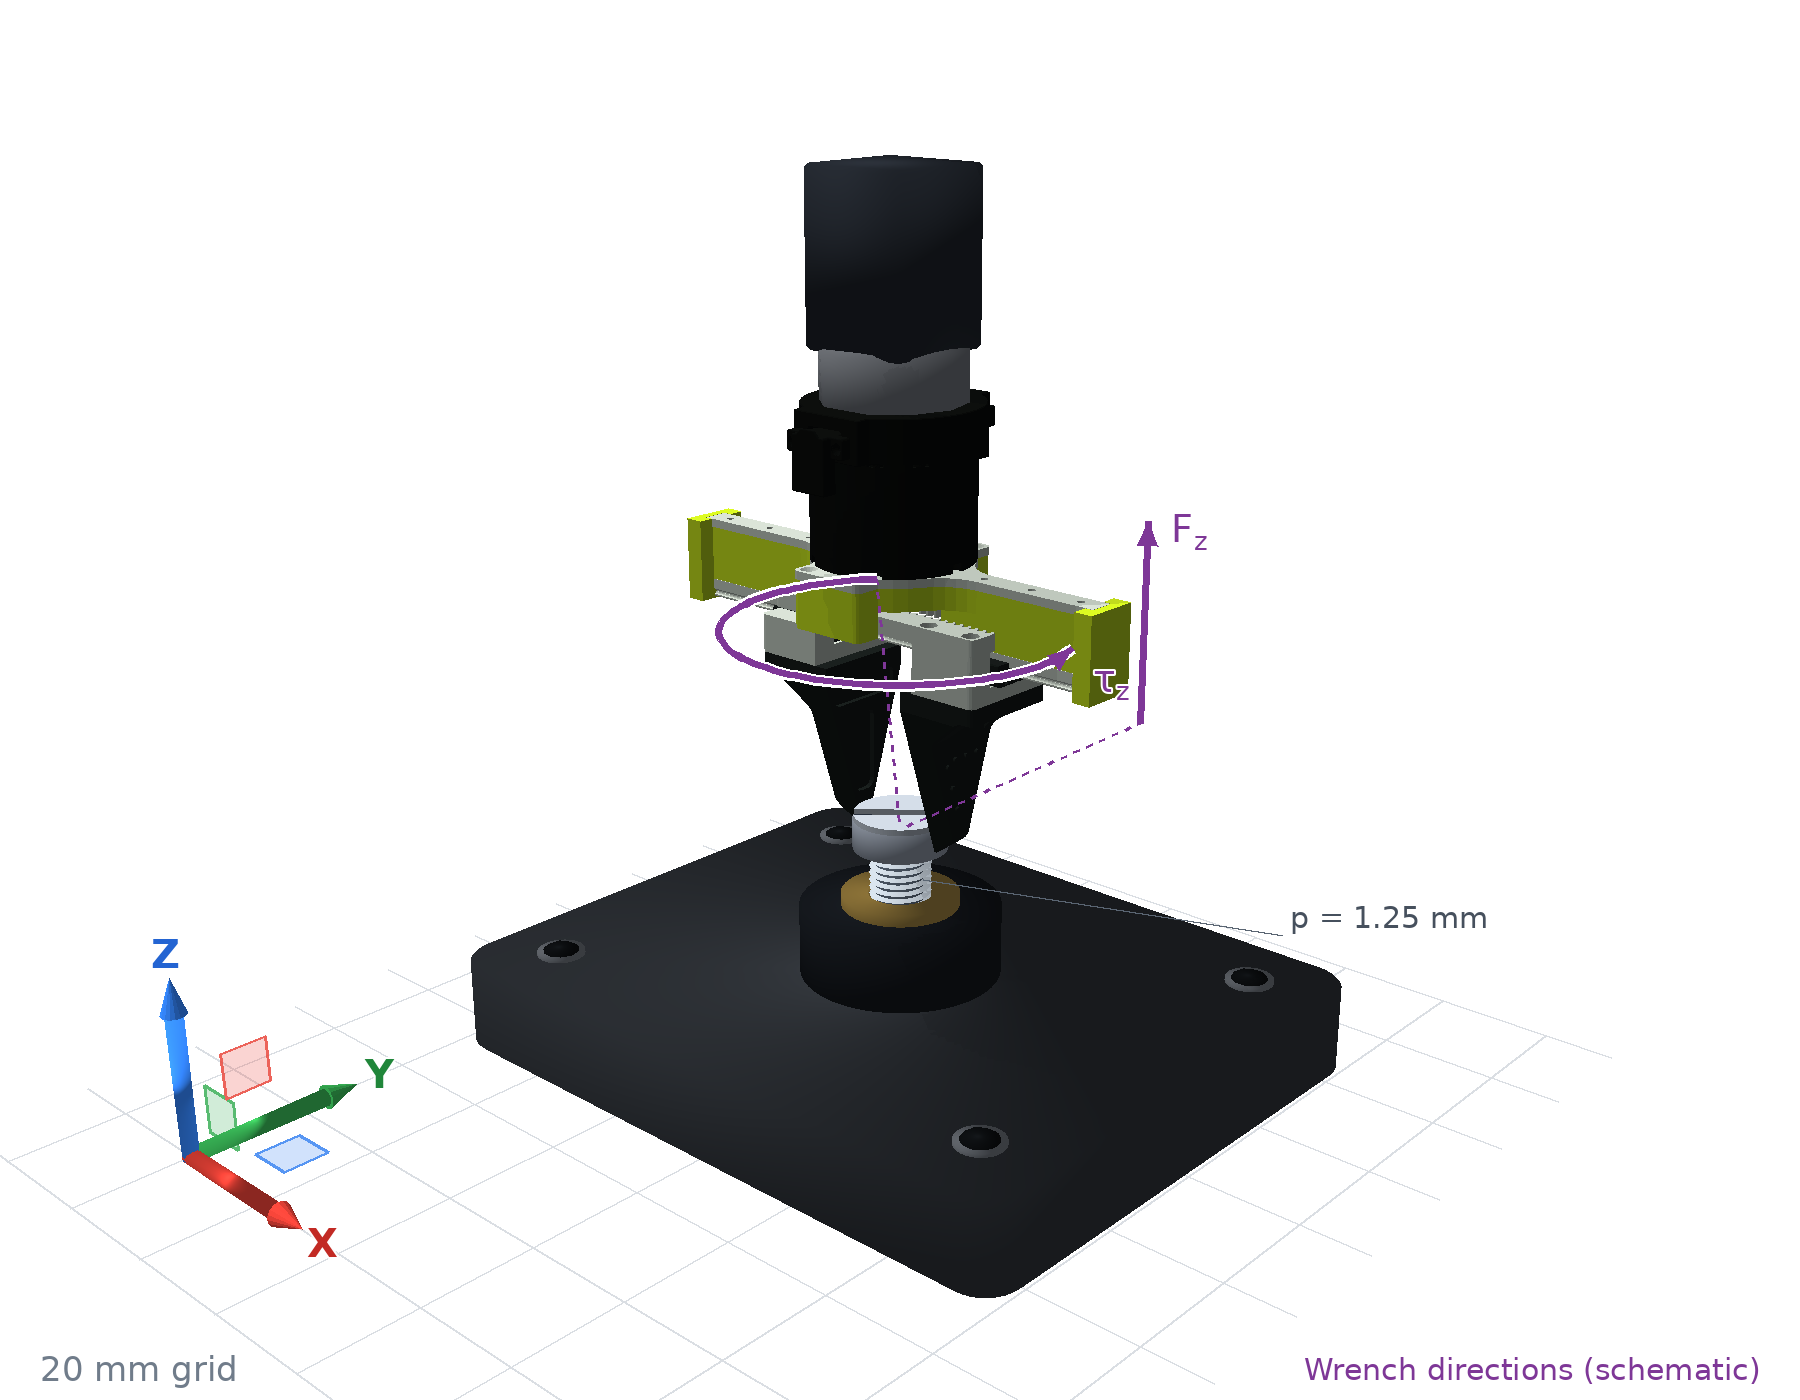
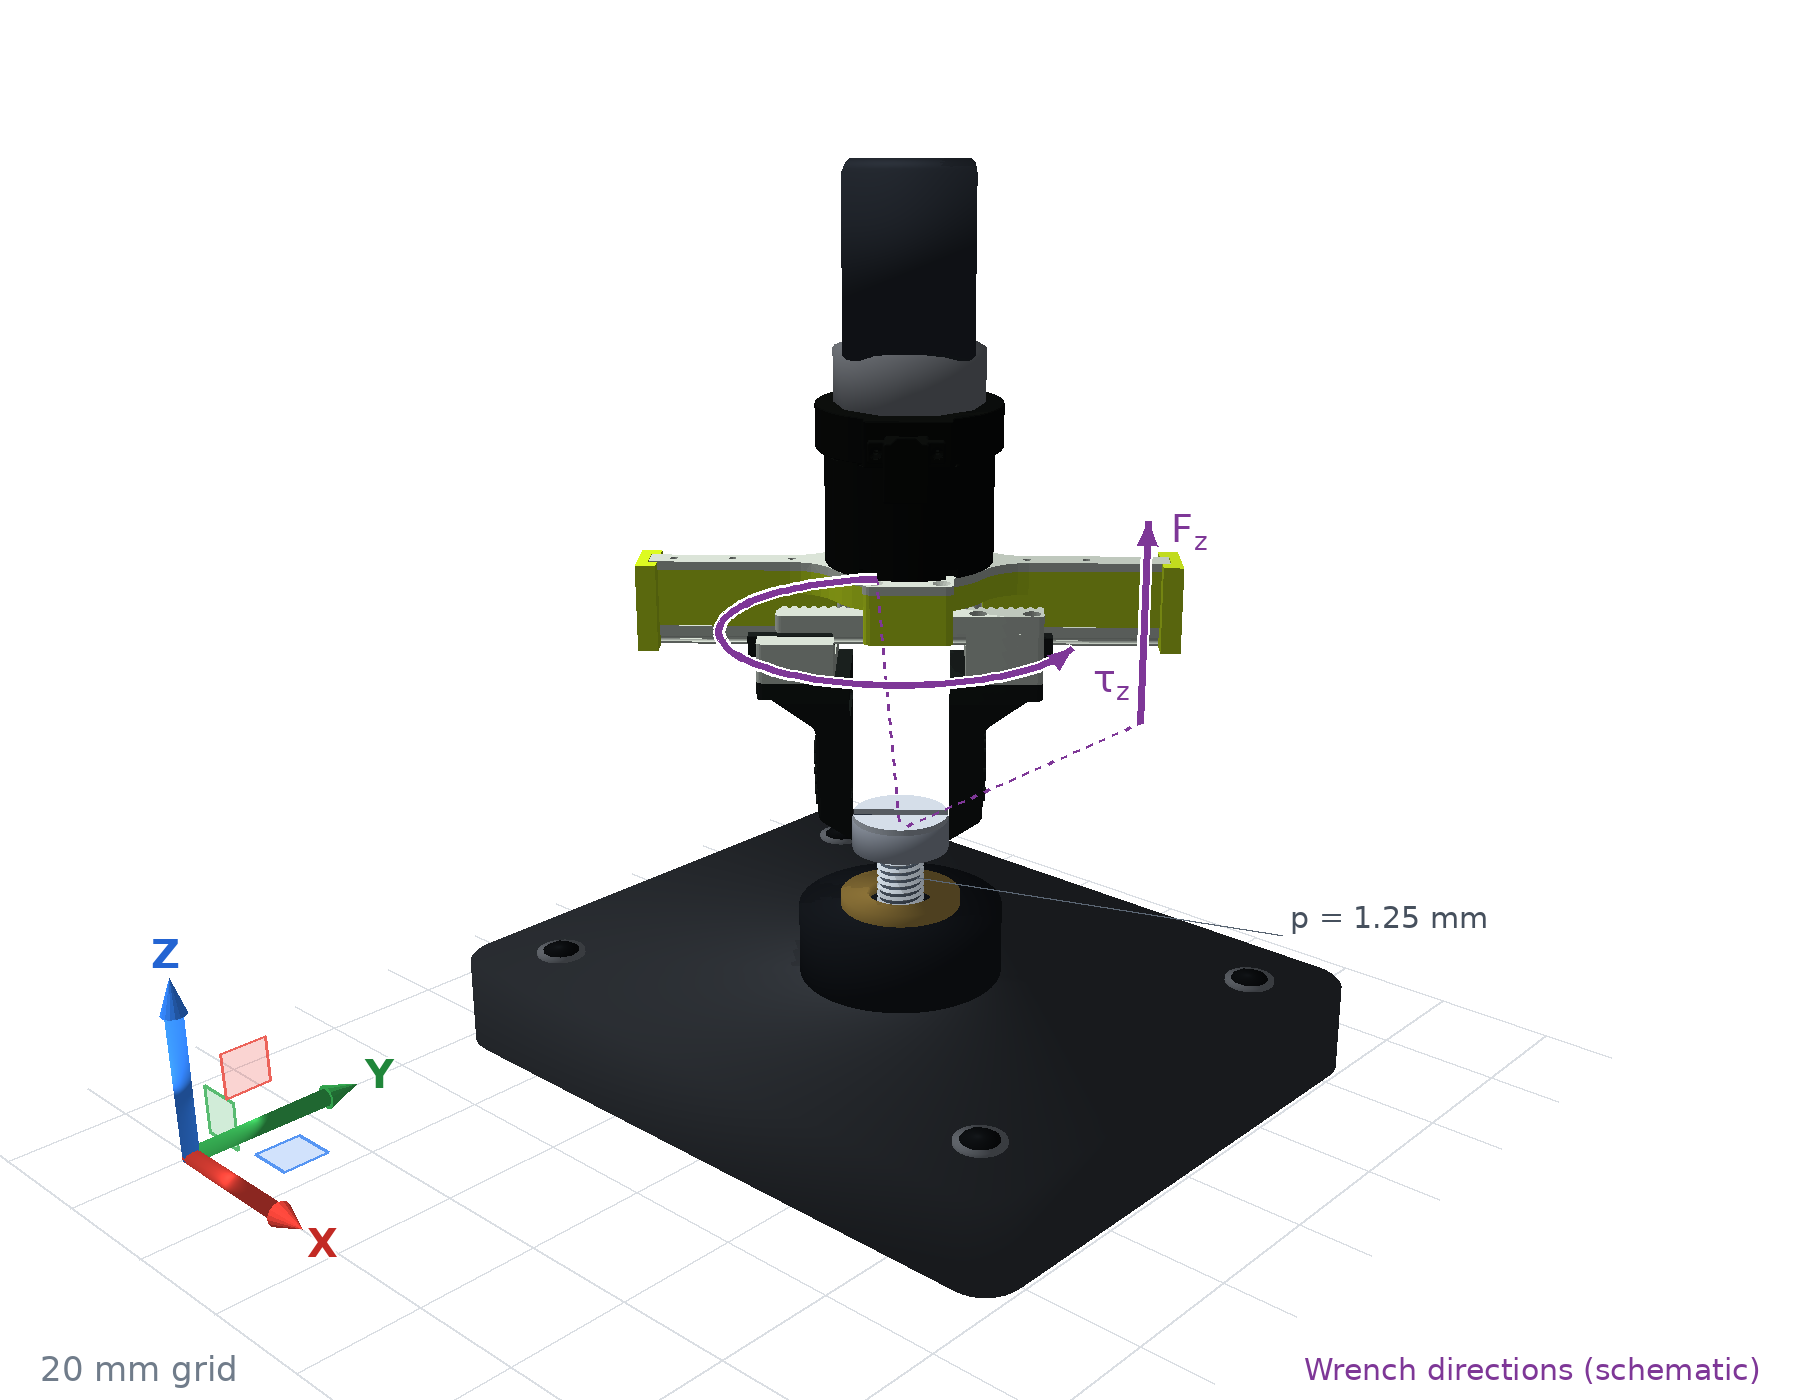
Drive SCREW geometry and grasp from environment state

Changed region(s): [[0.3422, 0.0921, 0.6844, 0.645], [0.5289, 0.1843, 0.56, 0.215], [0.5289, 0.1229, 0.56, 0.1536]]

diff --git a/scripts/render_screw_workspace_b601.py b/scripts/render_screw_workspace_b601.py
@@ -1,17 +1,17 @@
 #!/usr/bin/env python3
 """Render the archived SCREW frame with a threaded fastener and B601 grasp."""
-import json
 import math
 from pathlib import Path
 
 import numpy as np
 import pybullet as p
 from b601_render_common import make_box, make_cyl
+from workspace_environment import prepare_environment, body_geometry
 from workspace_render_cli import DEFAULT_OUTPUT_DIR, DEFAULT_PROVENANCE, run_renderer
 from workspace_wrench import force, metadata, torque
 
 
-def render(*, output_dir=DEFAULT_OUTPUT_DIR, provenance_path=DEFAULT_PROVENANCE, debug=False):
+def render(*, output_dir=DEFAULT_OUTPUT_DIR, provenance_path=DEFAULT_PROVENANCE, environment=None, debug=False):
     output_dir = Path(output_dir)
     output_dir.mkdir(parents=True, exist_ok=True)
     provenance_path = Path(provenance_path)
@@ -24,19 +24,15 @@ def render(*, output_dir=DEFAULT_OUTPUT_DIR, provenance_path=DEFAULT_PROVENANCE,
         write_manifest,
     )
 
-    entry = json.loads(provenance_path.read_text())["states"]["SCREW"]
-    if entry["trace_step"] != 188:
-        raise ValueError("Expected SCREW trace step 188")
-    state = entry["frame"]["state"]
-    theta, lift = float(state["theta_rad"]), float(state["z_m"])
-    # The archived helical state is unchanged. Dimensions below describe
-    # the illustrative fixture; pitch matches screw_env_v3.PITCH.
-    pitch = 0.00125
+    env, model, entry, binding = prepare_environment("SCREW", provenance_path, environment)
+    theta, lift = float(env.theta), float(env.z)
+    pitch = model.PITCH
+    crest_radius, root_radius = model.RADIUS, 0.85 * model.RADIUS
     fixture_top = 0.014
     head_z = fixture_top + lift + 0.003
     cid = p.connect(p.DIRECT)
     try:
-        rounded_box(cid, [0.060, 0.048, 0.008], [0, 0, -0.008], [0.22, 0.24, 0.27, 1], radius=0.007)
+        fixture = rounded_box(cid, [0.060, 0.048, 0.008], [0, 0, -0.008], [0.22, 0.24, 0.27, 1], radius=0.007)
         for x in (-0.047, 0.047):
             for y in (-0.035, 0.035):
                 annulus(cid, 0.0022, 0.0041, 0.0006, [x, y, 0.0003], [0.51, 0.54, 0.58, 1])
@@ -48,13 +44,13 @@ def render(*, output_dir=DEFAULT_OUTPUT_DIR, provenance_path=DEFAULT_PROVENANCE,
         bottom, top = head_z - 0.029, head_z - 0.003
         # Use an explicit mesh: the TinyRenderer cylinder primitive expands
         # its silhouette beyond the nominal radius and hides the thread flanks.
-        annulus(cid, 0, 0.00425, top - bottom, [0, 0, (top + bottom) / 2], [0.24, 0.28, 0.33, 1])
+        annulus(cid, 0, root_radius, top - bottom, [0, 0, (top + bottom) / 2], [0.24, 0.28, 0.33, 1])
         vertices, indices = [], []
         count = int((top - bottom) / pitch * 72)
         for angle in np.linspace(0, (top - bottom) / pitch * 2 * math.pi, count):
             a = angle + theta
             z = bottom + angle * pitch / (2 * math.pi)
-            for radius, dz in ((0.00423, -pitch * 0.30), (0.0052, 0), (0.00423, pitch * 0.30)):
+            for radius, dz in ((root_radius, -pitch * 0.30), (crest_radius, 0), (root_radius, pitch * 0.30)):
                 vertices.append([radius * math.cos(a), radius * math.sin(a), z + dz])
         for i in range(count - 1):
             for j in range(2):
@@ -64,7 +60,7 @@ def render(*, output_dir=DEFAULT_OUTPUT_DIR, provenance_path=DEFAULT_PROVENANCE,
         mesh_body(cid, vertices, indices, [0.69, 0.73, 0.78, 1], flat=True)
 
         # Recessed slot: two metal half-discs above a lower screw-head body.
-        annulus(cid, 0, 0.008, 0.005, [0, 0, head_z - 0.0005], [0.61, 0.65, 0.71, 1])
+        head = annulus(cid, 0, 0.008, 0.005, [0, 0, head_z - 0.0005], [0.61, 0.65, 0.71, 1])
         make_box(
             cid,
             [0.0078, 0.0012, 0.00004],
@@ -96,7 +92,7 @@ def render(*, output_dir=DEFAULT_OUTPUT_DIR, provenance_path=DEFAULT_PROVENANCE,
                 p.getQuaternionFromEuler([0, 0, theta]),
                 flat=True,
             )
-        robot, grasp = grasp_b601(cid, [0, 0, head_z], 0.016, tip_depth=0.002, debug=debug)
+        robot, grasp = grasp_b601(cid, [0, 0, head_z], 0.016, closing=[math.cos(theta), math.sin(theta), 0], tip_depth=0.002, debug=debug)
         contact_radii = [np.linalg.norm(np.asarray(pt)[:2]) for pt in grasp["contacts_m"]]
         if max(abs(r - 0.008) for r in contact_radii) > 0.0001:
             raise RuntimeError("SCREW fingertips do not contact the head surface")
@@ -115,7 +111,7 @@ def render(*, output_dir=DEFAULT_OUTPUT_DIR, provenance_path=DEFAULT_PROVENANCE,
         ]
         notes = [
             dict(
-                anchor_world_m=[0.0052, 0, fixture_top + lift * 0.45],
+                anchor_world_m=[crest_radius, 0, fixture_top + lift * 0.45],
                 position_px=[1290, 900],
                 text="p = 1.25 mm",
             )
@@ -138,6 +134,8 @@ def render(*, output_dir=DEFAULT_OUTPUT_DIR, provenance_path=DEFAULT_PROVENANCE,
                 output_dir / "screw_workspace_manifest.json",
                 "SCREW",
                 entry,
+                environment=binding,
+                rendered_bodies=body_geometry(cid, fixture=fixture, head=head, gripper=robot),
                 camera=camera,
                 grasp=grasp,
                 **metadata(wrenches),
@@ -145,8 +143,8 @@ def render(*, output_dir=DEFAULT_OUTPUT_DIR, provenance_path=DEFAULT_PROVENANCE,
                 thread_core_geometry="explicit radius mesh",
                 head_diameter_m=0.016,
                 contact_radial_error_m=[r - 0.008 for r in contact_radii],
-                thread_root_radius_m=0.00425,
-                thread_crest_radius_m=0.0052,
+                thread_root_radius_m=root_radius,
+                thread_crest_radius_m=crest_radius,
                 head_bottom_above_insert_m=lift,
                 fixture_top_m=fixture_top,
                 theta_rad=theta,
